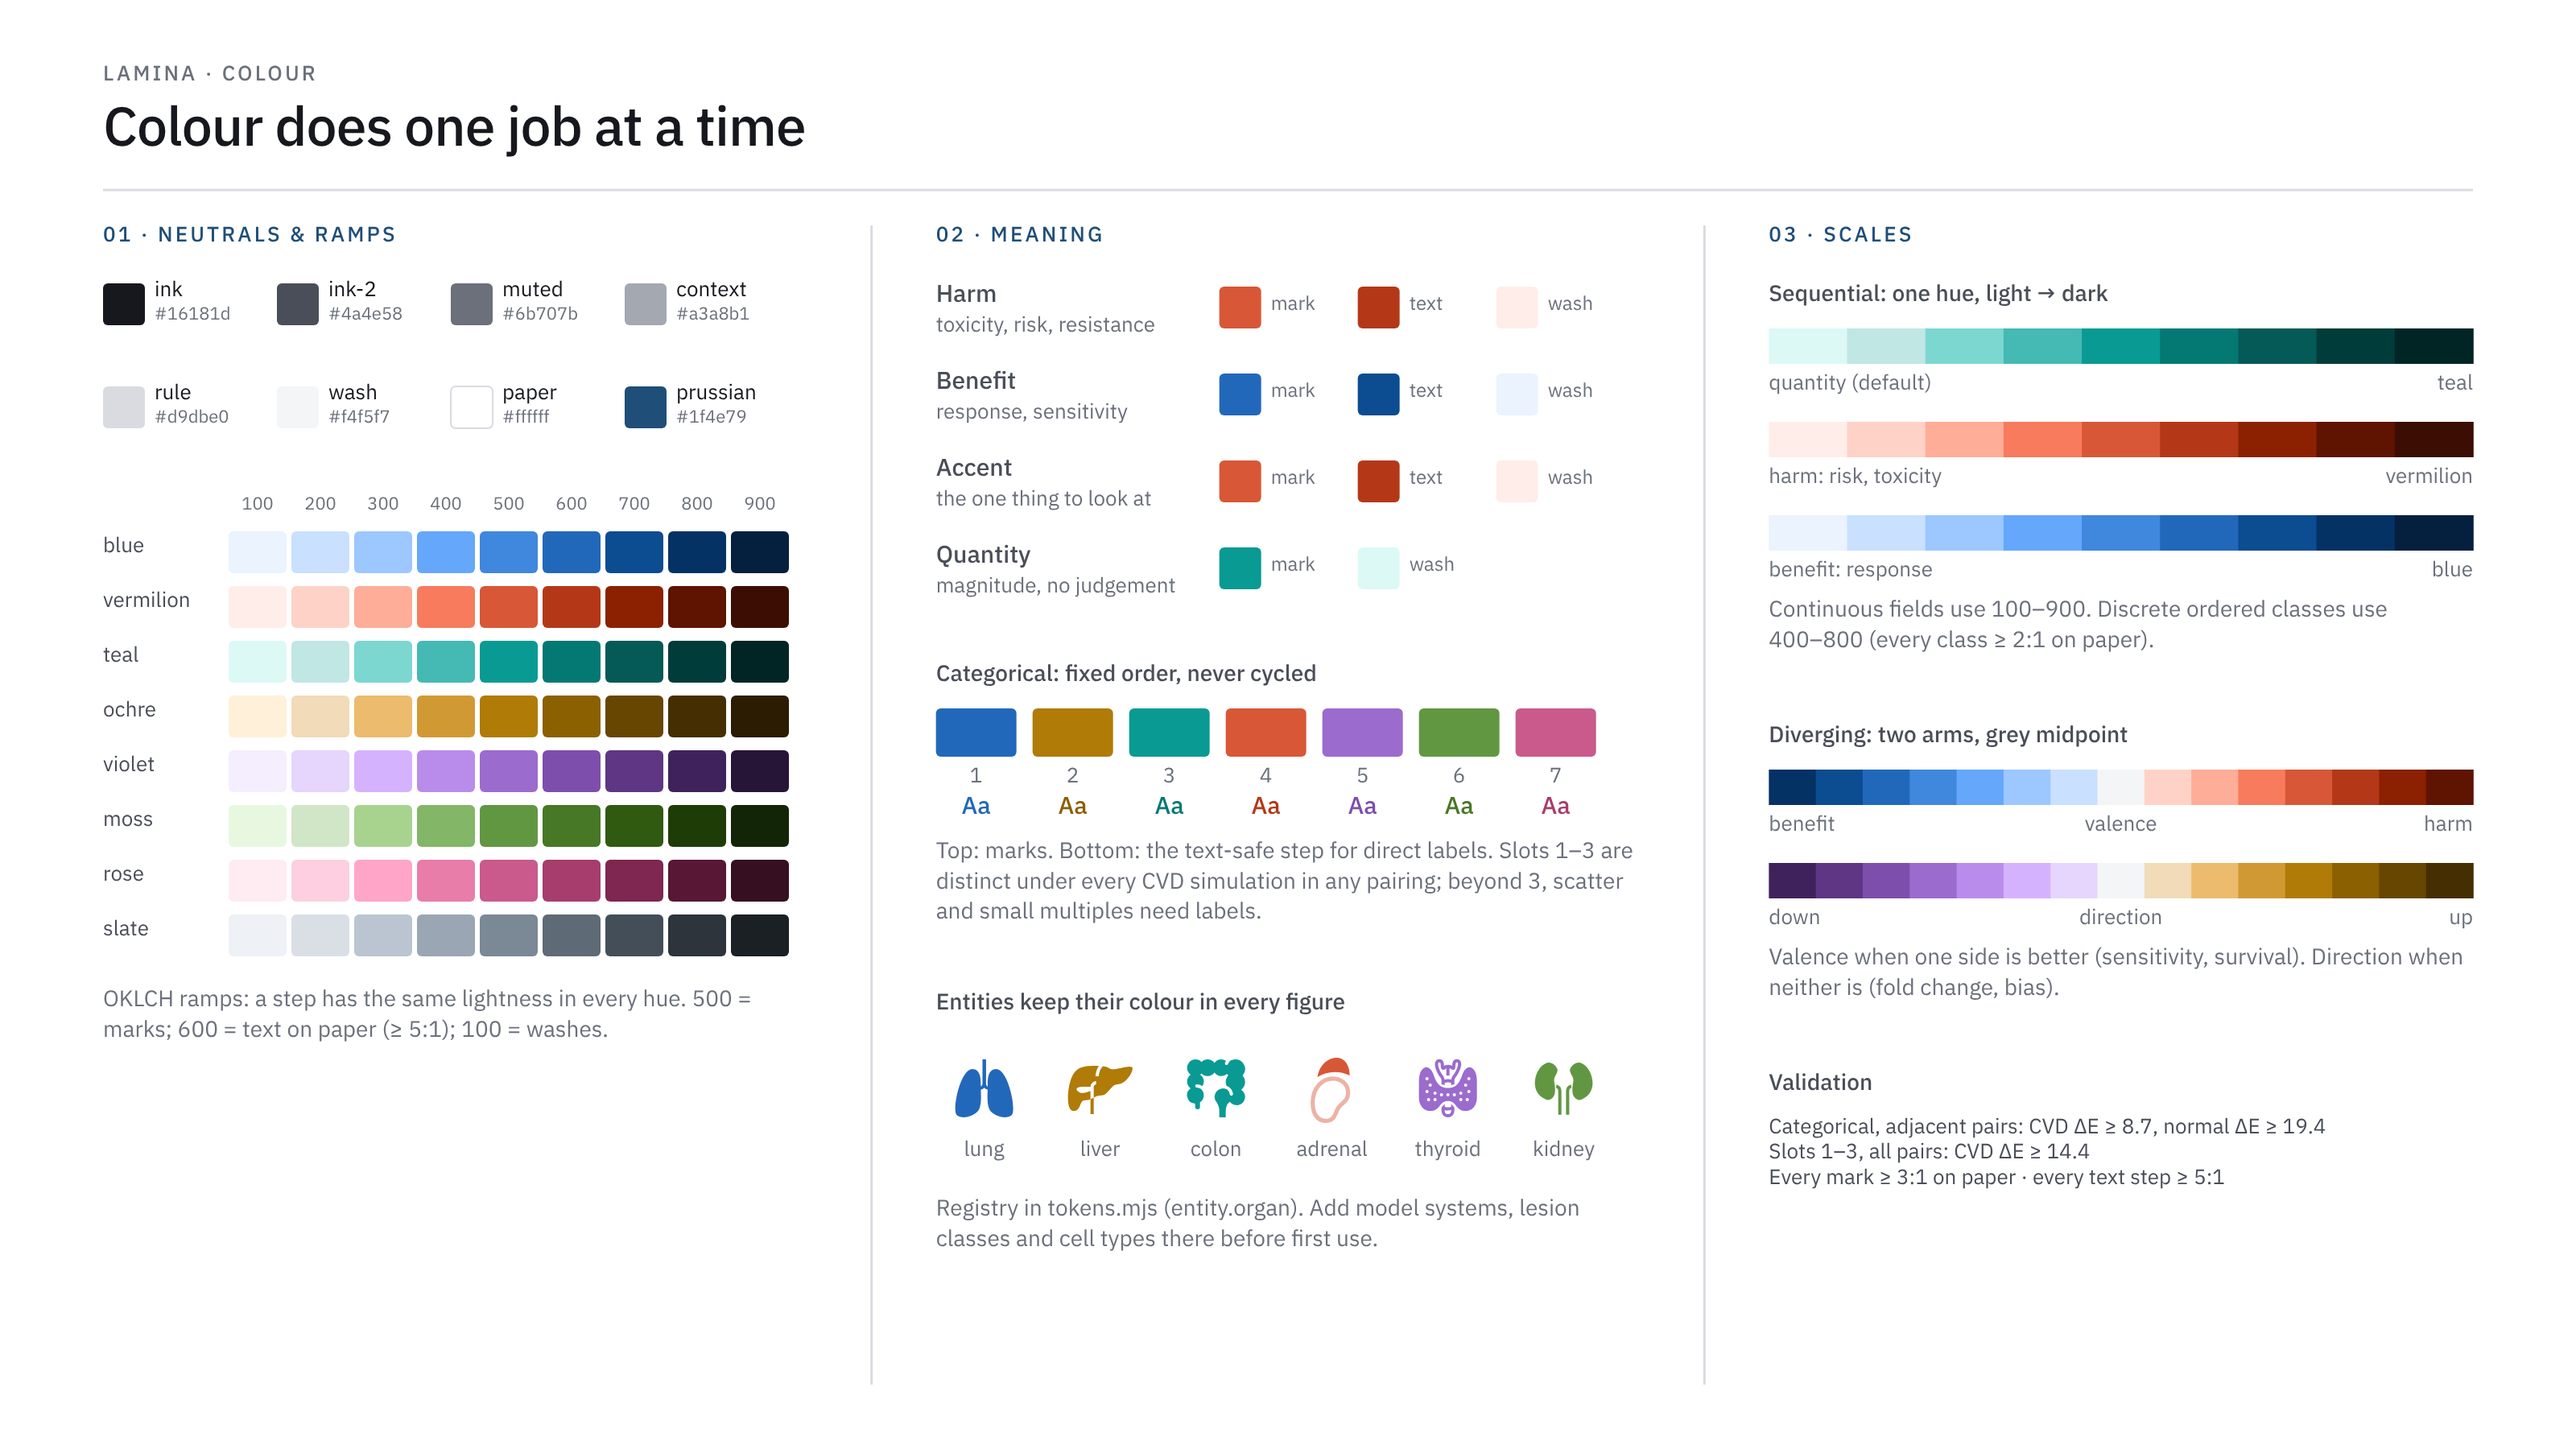
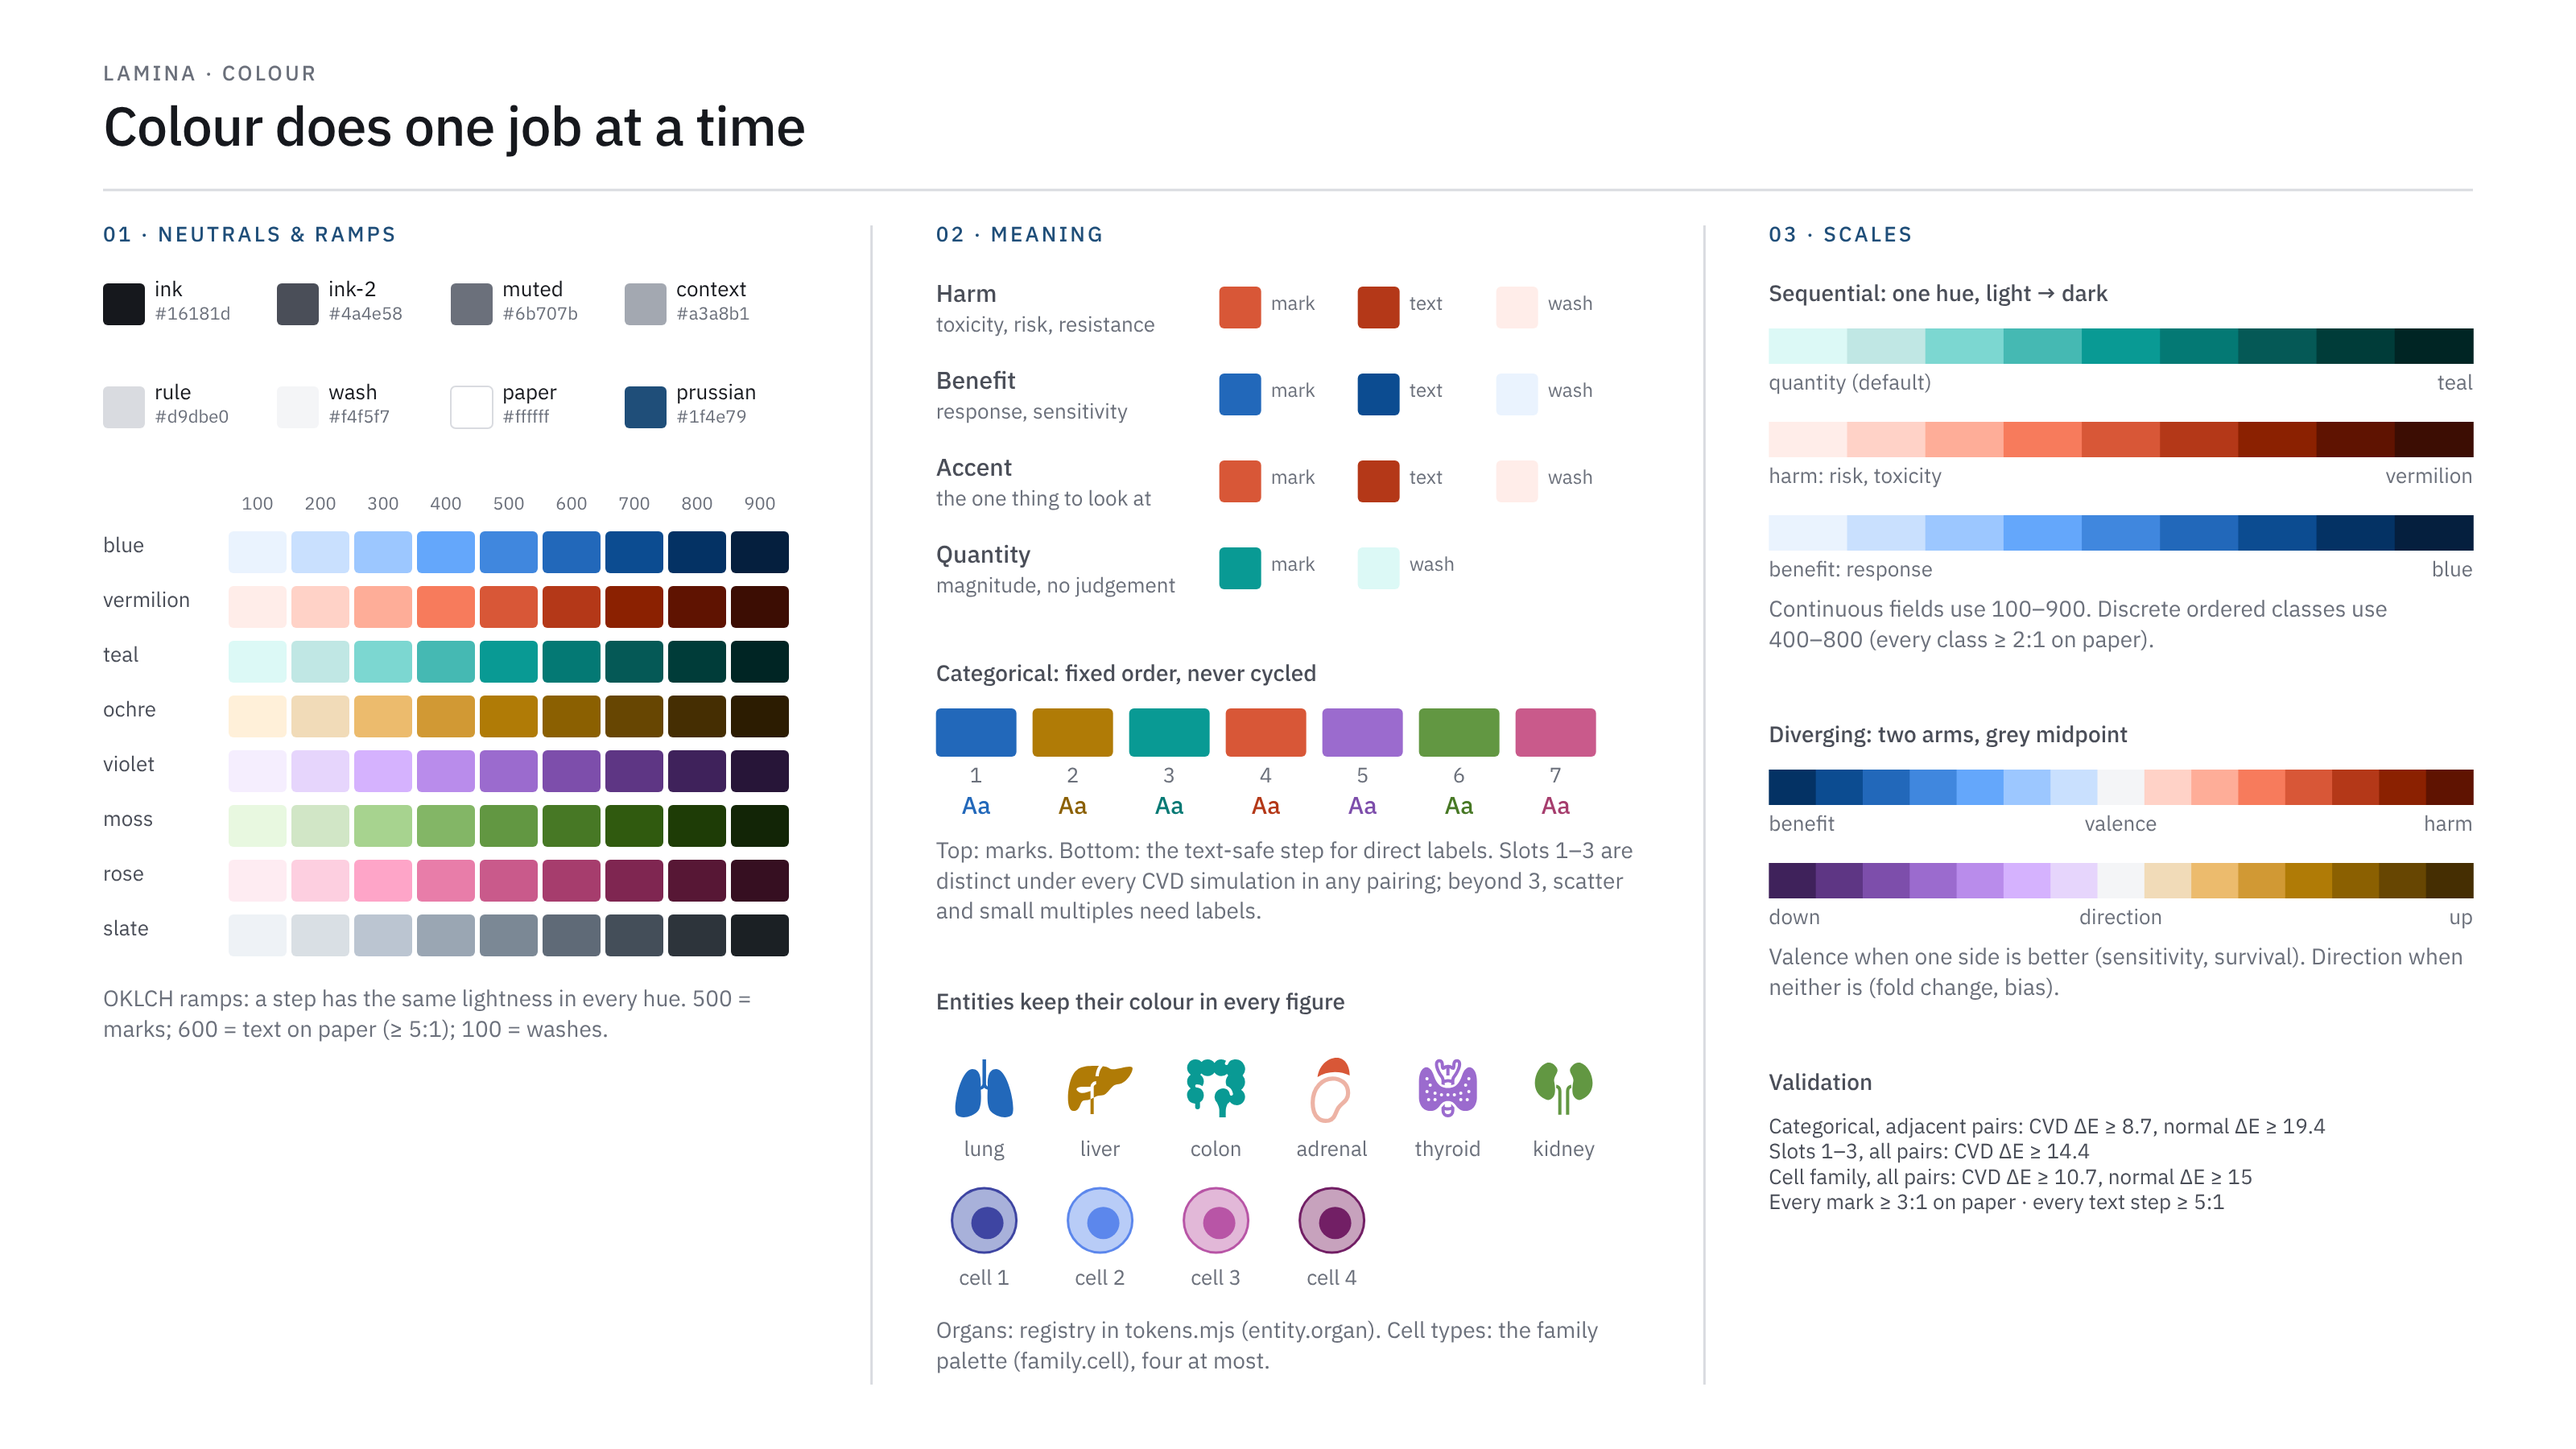
Lamina: fold the explanatory layer into the design system
Cell-type family palette (color.md), Drawing biology section with cell glyph,
tissue, spots, zoom inset, proportion dials, matrices, model notation and notes
(DESIGN.md), zoom and sweep motion, note and math roles (typography.md), dial
form (charts.md), cell family on the colour specimen. Removes explain.md.

Claude-Session: https://claude.ai/code/session_01NVv2iCohqJxzCAjcpTe6Cv

Changed region(s): [[0.3438, 0.8089, 0.5938, 0.8711], [0.375, 0.9022, 0.625, 0.9644], [0.6875, 0.8089, 0.875, 0.84]]

diff --git a/graphical_abstracts/design/artifacts/specimen-color.html b/graphical_abstracts/design/artifacts/specimen-color.html
@@ -8,6 +8,7 @@
 <link rel="stylesheet" href="../../kit/ga-kit.css">
 <script src="../../kit/icons.js"></script>
 <script src="../../kit/ga-kit.js"></script>
+<script src="../../kit/ga-bio.js"></script>
 </head>
 <body>
 <script>
@@ -76,7 +77,14 @@ GA.build({ duration: 6, poster: 5.5, title: "Lamina colour specimens", desc: "Ne
     ga.icon(icon, { cx, cy: 676, size: 48, color: tok(`organ-${k}`), at: 0.3 });
     ga.text(name, { x: cx, y: 708, role: "tick", anchor: "middle", at });
   });
-  ga.text("Registry in tokens.mjs (entity.organ). Add model systems, lesion classes and cell types there before first use.", { x: c2.x0, y: 744, w: c2.w, role: "cap", size: 14, at });
+  // cell types: one hue family, drawn as the cell glyph (nucleus + cytoplasm)
+  const B = GA.bio(ga);
+  for (let k = 1; k <= 4; k++) {
+    const cx = c2.x0 + 30 + (k - 1) * 72;
+    B.cell({ cx, cy: 758, r: 20, k, at: 0.3 });
+    ga.text(`cell ${k}`, { x: cx, y: 788, role: "tick", anchor: "middle", at });
+  }
+  ga.text("Organs: registry in tokens.mjs (entity.organ). Cell types: the family palette (family.cell), four at most.", { x: c2.x0, y: 820, w: c2.w, role: "cap", size: 14, at });
 
   // ---- column 3: scales ------------------------------------------------------------
   step(c3, "03 · SCALES");
@@ -101,7 +109,7 @@ GA.build({ duration: 6, poster: 5.5, title: "Lamina colour specimens", desc: "Ne
   ga.text("Valence when one side is better (sensitivity, survival). Direction when neither is (fold change, bias).", { x: c3.x0, y: 588, w: c3.w, role: "cap", size: 14, at });
 
   sub(c3, 666, "Validation");
-  ga.text("Categorical, adjacent pairs: CVD ΔE ≥ 8.7, normal ΔE ≥ 19.4\nSlots 1–3, all pairs: CVD ΔE ≥ 14.4\nEvery mark ≥ 3:1 on paper · every text step ≥ 5:1", { x: c3.x0, y: 694, w: c3.w, role: "tick", size: 13, color: "var(--ink-2)", at });
+  ga.text("Categorical, adjacent pairs: CVD ΔE ≥ 8.7, normal ΔE ≥ 19.4\nSlots 1–3, all pairs: CVD ΔE ≥ 14.4\nCell family, all pairs: CVD ΔE ≥ 10.7, normal ΔE ≥ 15\nEvery mark ≥ 3:1 on paper · every text step ≥ 5:1", { x: c3.x0, y: 694, w: c3.w, role: "tick", size: 13, color: "var(--ink-2)", at });
 });
 </script>
 </body>

diff --git a/graphical_abstracts/kit/ga-bio.js b/graphical_abstracts/kit/ga-bio.js
@@ -1,4 +1,4 @@
-// Explanatory layer for the graphical abstract kit (see design/artifacts/explain.md).
+// Explanatory layer for the graphical abstract kit (see design/artifacts/DESIGN.md, "Drawing biology").
 //
 //   const B = GA.bio(ga);
 //   B.cell({ cx, cy, r: 18, k: 1 });                 // nucleus + cytoplasm glyph, family colour k

diff --git a/graphical_abstracts/design/artifacts/DESIGN.md b/graphical_abstracts/design/artifacts/DESIGN.md
@@ -85,10 +85,12 @@ A **scientific statement**, drawn. It reads like the paper's abstract, not an ad
 
 - **Loop 16 s** (always under 20 s, no sound). Header 0–1 s, panels about 4 s each,
   take-home at about 13.4 s, hold, fade out 15.5–16 s. The poster frame (the static
-  image) is t = 15 s, so the static version is the complete figure.
+  image) is t = 15 s, so the static version is the complete figure. A figure that
+  explains a mechanism may run 18 s, with the poster at 17 s.
 - **Vocabulary:** `in` (rise 12 px and fade) for text; `pop` for icons and boxes;
-  `draw` for arrows and curves; `grow` for bars; `fade` for chart frames and fields.
-  Nothing else.
+  `draw` for arrows and curves; `grow` for bars; `fade` for chart frames and fields;
+  `zoom` for an inset growing out of its source; `sweep` for a proportion wedge
+  filling clockwise from 12 o'clock. Nothing else.
 - **Timing:** enter 0.6–0.8 s, draws 0.8–1.2 s, stagger 80 ms. Arrowheads appear
   as their line finishes. Chart frames come before the data, and labels come after
   the marks land.
@@ -102,6 +104,39 @@ A **scientific statement**, drawn. It reads like the paper's abstract, not an ad
 - Colour an icon only when it is an entity with a registered colour (organs). Otherwise
   use ink or prussian.
 - Icon size can encode a quantity (grade, for example) only if a caption says so.
+
+## Drawing biology
+
+Draw the objects the work is about, simply, and let the drawing carry the
+explanation. The kit's `GA.bio` layer (`kit/ga-bio.js`) draws each of these.
+
+- **Cells.** A round cytoplasm in the cell type's tint with a 1.5 px outline in its
+  mark colour, and an offset nucleus in the mark colour. The same glyph is the cell
+  type's legend swatch wherever the type appears. Colours come from the cell-type
+  family (`color.md`).
+- **Tissue.** A silhouette in neutral wash with a slightly darker core for inner
+  anatomy, outlined in `context`. Tissue is never coloured: colour is kept for the
+  cell types measured in it.
+- **Spots (pixels).** Paper-filled rings with a `context` outline on a regular
+  lattice inside the tissue.
+- **Zoom.** To look inside one thing, ink its outline, run two dotted tangent leaders
+  (muted, 1.5 px, `1 4` dash) to a circular inset (wash fill, ink-2 outline), and draw
+  the contents inside. In motion the inset grows out of its source (`zoom`), so the
+  eye travels with it. Zoom stays within a panel.
+- **Proportion dials.** A wedge inside each spot shows one cell type's share of
+  that spot, filled clockwise from 12 o'clock. Show one type per map and repeat the
+  map as small multiples, labelled with the cell glyph and `k = 1`. A spot never
+  holds a many-slice pie.
+- **Matrices.** A hairline grid in `rule` with a glyph at each row (a spot ring, a
+  cell) and braces labelled with the dimension (*D*, *N*). Cells stay empty unless
+  their values are the point; then they take the quantity ramp or the entity's colour.
+- **Model notation.** Variables are circles (r 26, ink-2 ring, paper fill; observed
+  ones filled `rule`), labelled with `math` type. Plates are 1.5 px ink-2 rectangles
+  with a 4 px radius and the index top-left (`d = 1…D`). Edges are the standard
+  prussian arrow.
+- **Notes.** A muted `note` label, one to three words, with a thin muted leader from
+  the mark. Use them only for notation a reader outside the field cannot decode,
+  never for what the drawing already shows.
 
 ## Arrows and method boxes
 

diff --git a/graphical_abstracts/design/artifacts/color.md b/graphical_abstracts/design/artifacts/color.md
@@ -111,6 +111,30 @@ their first use, and draw them from the categorical hues. A registered colour be
 slot order. If two registered entities that are close in hue sit side by side,
 label them directly.
 
+#### Cell types: a family palette
+
+Cell types in one figure are members of one kind, so they share one hue band,
+blue through violet to magenta, instead of taking categorical slots. They read as
+related and distinct at once.
+
+| Token | Mark | Tint (`-wash`) | OKLCH |
+|---|---|---|---|
+| `--cell-1` | `#3e45a2` indigo | `#a8b1da` | 0.44 0.148 275 |
+| `--cell-2` | `#5c87ec` cornflower | `#b8ccf7` | 0.64 0.159 265 |
+| `--cell-3` | `#b855a6` orchid | `#e2b8d8` | 0.60 0.160 335 |
+| `--cell-4` | `#721f65` plum | `#c7a2bd` | 0.40 0.142 335 |
+
+- The four were chosen by search over the 265–335° band, for the widest separation
+  under colour-vision deficiency with every mark at least 3:1 on paper. Every pair
+  is at least 10.7 apart under protanopia and deuteranopia, and at least 15 apart
+  for normal vision.
+- The mark colour is for nuclei, outlines, dial wedges and matrix fills. The tint
+  (62 % toward paper, 40 % chroma) is for cytoplasm and other large fills.
+- **Four is the limit.** With more cell types, fold the rest into "other" (context
+  grey) or split into small multiples. A panel never uses the family palette and the
+  categorical slots together.
+- Defined in `tokens.mjs` (`family.cell`).
+
 ### 5. Magnitude: how much
 
 One hue, light to dark.

diff --git a/graphical_abstracts/design/artifacts/typography.md b/graphical_abstracts/design/artifacts/typography.md
@@ -50,8 +50,8 @@ never from a second face.
 | `axis` | 500 | 14/18 | ink-2 | Chart axis titles |
 | `tick` | 400, tabular figures | 13/16 | muted | Tick labels, keys, legends |
 | `take` | 400, plain | 28/36 | ink | The single take-home sentence |
-| `note` | 400 | 14/18 | muted | Callouts that explain a mark (proposed, `explain.md`) |
-| `math` | 400; Latin italic, Greek upright | 17/22 | ink | Variables: θ, *z*<sub>*d,m*</sub> (proposed, `explain.md`) |
+| `note` | 400 | 14/18 | muted | Callouts that explain a mark |
+| `math` | 400; Latin italic, Greek upright | 17/22 | ink | Variables and indices: θ, *z*<sub>*d,m*</sub>, *k* = 1. Latin letters italic; Greek upright, because Plex's italic θ reads as ϑ; subscripts at 70 % |
 
 Rules:
 

diff --git a/graphical_abstracts/design/artifacts/charts.md b/graphical_abstracts/design/artifacts/charts.md
@@ -30,6 +30,7 @@ sitting on a line fails the render.
 | Many tests, effect against significance | Volcano (06) |
 | Matrix of values (tissue × drug) | Heatmap (07) |
 | Parts of a whole per unit | 100 % stacked bars (08) |
+| One share per location in space (cell type per spot) | Proportion dials in small multiples, one type per map (see `DESIGN.md`, *Drawing biology*) |
 | One number is the story | Not a chart. Set the number large, in `head` or `take`, with its n |
 
 Never use 3D, dual y-axes, pies over 3 slices, radar charts, or smoothed
